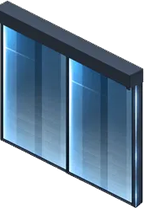
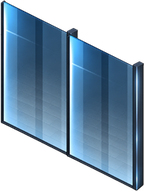
Troca vidro da fachada pra arte lisa (sem perfil/laje em relevo)
Douglas pediu arte nova: "quero os vidros lisos agora, sem o perfil
encima", mandou referência de 2 vidraças lisas + composição de canto
com 3 andares pra calibrar ("assim").

- facade-glass-tile.png / -single.png: nova arte lisa, 144x191 /
  72x191 (recorte exato da metade esquerda, sem distorção)
- facade-glass-tile-lit.png / -single-lit.png: cópias planas por
  enquanto (seleção automática de painel aceso continua pausada,
  WALL_GLASS_LIT_RATIO=0 -- Douglas vai mandar a arte acesa dele e
  posicionar manualmente depois)
- FACADE_GLASS_TILE_HEIGHT_PX / FACADE_GLASS_SINGLE_TILE_HEIGHT_PX:
  208 -> 191 (altura real da arte nova)
- FACADE_GLASS_FLOOR_REPEAT_STEP_PX: 130 -> 122, recalibrado medindo
  a referência nova do Douglas e validado numa simulação local de
  empilhamento vertical (vstack) antes de subir

Claude-Session: https://claude.ai/code/session_018xm3GX2bQC8Nuwuw2rsoPK

diff --git a/game/MainScene.ts b/game/MainScene.ts
@@ -431,21 +431,19 @@ const FLOOR_GLASS_REPEATS = 6;
 /** Distância vertical (px) entre uma repetição e a próxima de
  * drawFloorEdgeGlass -- PROPOSITALMENTE menor que a altura de verdade
  * do arquivo (FACADE_GLASS_TILE_HEIGHT_PX), pra dar OVERLAP entre elas
- * em vez de só encostar. ACHADO (Douglas mandou referência com 3
- * andares emendados, testou ao vivo e apontou: "olha na vertical o
- * espaco que tem entre elas... na imagem que mandei elas ainda passam
- * um pouco embaixo sobrepoe um pouco") -- a arte tem laje/perfil com
- * profundidade 3D no topo E na base (ver comentário grande de
- * drawFloorEdgeGlass), então empilhar exatamente pela altura cheia do
- * arquivo (encostando bbox a bbox, mesma ideia que já tinha dado
- * problema na horizontal -- ver ACHADO 2 em FACADE_GLASS_TILE_WIDTH_PX
- * em game/wall.ts) sobra um vão vazio bem no meio, porque nem o topo
- * nem a base da arte preenchem a largura toda até a última linha.
- * Valor calibrado testando alguns overlaps numa simulação local (130px
- * ~= 62% da altura de 208px) até bater com a referência do Douglas: a
- * base de uma repetição cobre o topo da próxima, sobrando só 1 linha de
- * "laje" contínua entre andares, sem vão E sem cortar vidro demais. */
-const FACADE_GLASS_FLOOR_REPEAT_STEP_PX = 130;
+ * em vez de só encostar. ACHADO original (arte antiga, com perfil/laje
+ * no topo): Douglas mandou referência com 3 andares emendados, testou
+ * ao vivo e apontou que empilhar pela altura cheia do arquivo deixava
+ * vão vazio no meio -- calibrado 130px (~62% de 208px) pra sobrepor.
+ * ATUALIZADO pra arte nova "lisa, sem perfil encima" (Douglas: "quero
+ * os vidros lisos agora, sem o perfil encima"), que é mais baixa
+ * (FACADE_GLASS_TILE_HEIGHT_PX = 191px). Valor recalibrado medindo a
+ * referência nova do Douglas (composição de canto com 3 andares, arte
+ * lisa, legenda "assim"): período vertical entre andares na referência
+ * escalado pra o tamanho do asset daqui deu ~122px (~64% de 191px),
+ * conferido numa simulação local de empilhamento (vstack) antes de
+ * subir -- sem vão visível entre andares. */
+const FACADE_GLASS_FLOOR_REPEAT_STEP_PX = 122;
 
 // tinta de área (ver game/areas.ts) fica ENTRE o piso e a mobília "flat" --
 // é um "verniz" por cima do chão marcando a zona (mesa privada/sala),

diff --git a/game/wall.ts b/game/wall.ts
@@ -322,9 +322,20 @@ const FACADE_GLASS_ENTRY: WallCatalogEntry = {
  * mesmo com as peças grudadas. Cortei essa margem morta (a arte já vem
  * com esse recorte pronto agora), então a largura/altura aqui são só o
  * tamanho de verdade do PNG já cortado -- não precisa mexer em mais
- * nada além de gerar a arte certa se isso mudar de novo. */
+ * nada além de gerar a arte certa se isso mudar de novo.
+ *
+ * ACHADO 3 (Douglas: "quero os vidros lisos agora, sem o perfil
+ * encima" -- trocou a arte de novo, de "vidraça com perfil/laje em
+ * relevo no topo" pra "vidraça lisa", mandando uma referência nova,
+ * mais uma composição de canto/3-andares, legenda "assim") -- arte
+ * trocada de novo (altura mudou de 208 pra 191px; largura continua
+ * 144), recalibrado o mesmo jeito: medindo a referência nova (canto
+ * fecha certinho) e simulando localmente antes de subir. Esse
+ * comentário e o ACHADO 2 acima descrevem a arte ANTERIOR (com perfil)
+ * -- mantidos só como histórico de como o processo de calibração
+ * funciona, não descrevem mais o facade-glass-tile.png atual. */
 export const FACADE_GLASS_TILE_WIDTH_PX = 144;
-export const FACADE_GLASS_TILE_HEIGHT_PX = 208;
+export const FACADE_GLASS_TILE_HEIGHT_PX = 191;
 /** Largura/altura do fallback de 1 vidraça só (facade-glass-tile-single.png)
  * -- ver comentário grande acima. Também usado pelo caminho genérico
  * addWallSprite (MainScene.ts, chamado por refreshWallNeighbors/
@@ -336,7 +347,7 @@ export const FACADE_GLASS_TILE_HEIGHT_PX = 208;
  * (syncFacadeGlassWalls) reconstrói a fachada inteira do zero,
  * reparando o pareamento certo de novo. */
 export const FACADE_GLASS_SINGLE_TILE_WIDTH_PX = 72;
-export const FACADE_GLASS_SINGLE_TILE_HEIGHT_PX = 208;
+export const FACADE_GLASS_SINGLE_TILE_HEIGHT_PX = 191;
 
 export const WALL_CATALOG: WallCatalogEntry[] = [...GENERATED_WALL_CATALOG, FACADE_GLASS_ENTRY];
 
